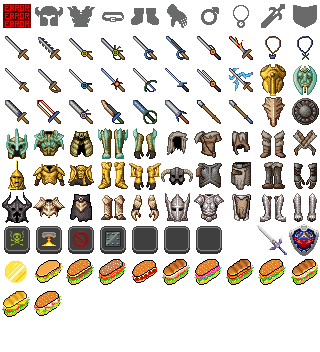
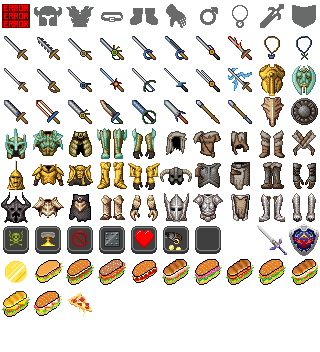
Spells and Pizza

diff --git a/res/ressources_id.py b/res/ressources_id.py
@@ -24,9 +24,10 @@ items_id = {
     "boots": [43, 48, 53, 58, 63, 68],
     "gloves": [44, 49, 54, 59, 64, 69],
 
-    "spellbooks": [70, 71, 72, 73],
+    "spellbooks": [70, 71, 72, 73, 74, 75],
 
-    "sandwichs": [81, 82, 83, 84, 85, 86, 87, 88, 89, 90, 91]
+    "sandwichs": [81, 82, 83, 84, 85, 86, 87, 88, 89, 90, 91],
+    "pizza": 92
 }
 
 monsters_id = {
